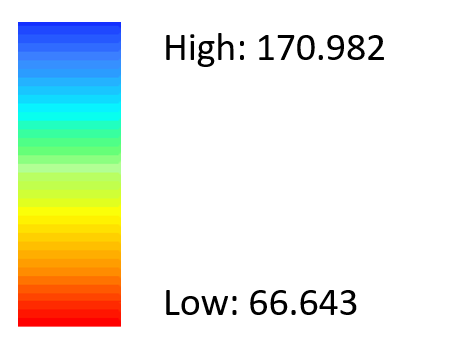
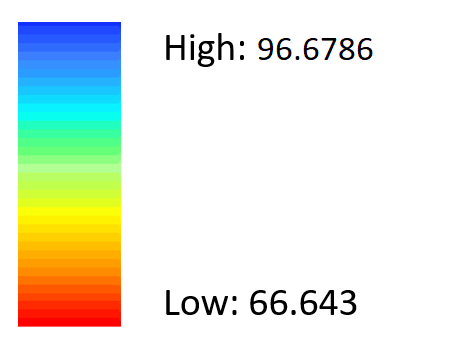
update png files with ones generated from model results

Changed region(s): [[0.5431, 0.0938, 0.8448, 0.1875]]

diff --git a/gafrd_portal_app/templates/index.html b/gafrd_portal_app/templates/index.html
@@ -569,10 +569,10 @@ function checkbox_status(id){
 }
 
 function load_results(id){
-    var top_eg = 31.578858103
-    var left_eg = 30.0000002375
-    var right_eg = 32.0107141575
-    var bottom_eg = 30.6609431859
+    var top_eg = 31.6102614885
+    var left_eg = 29.9709819819
+    var right_eg = 32.0209819819
+    var bottom_eg = 30.6292614885
 
     // Extent for South Africa Data
     /*

diff --git a/gafrd_portal_app/background_removal.py b/gafrd_portal_app/background_removal.py
@@ -1,7 +1,7 @@
 import cv2
 
-#file_name = r"F:\NARSS\Fishers_Project\GAFRD_Portal\gafrd_portal_app\static\model_results\FinalRestrictionModel.png"
-file_name = r"D:\NARSS\Fishers_Project\GAFRD_Portal\gafrd_portal_app\static\model_results\FinalRestrictionModel.png"
+#file_name = r"C:/Users/ahmed.kotb/PycharmProjects/GAFRD_Portal/gafrd_portal_app/static/model_results/FinalSuitabilityModel.tif"
+file_name = r"C:/Users/ahmed.kotb/PycharmProjects/GAFRD_Portal/gafrd_portal_app/static/model_results/FinalRestrictionModel.png"
 src = cv2.imread(file_name, 1)
 tmp = cv2.cvtColor(src, cv2.COLOR_BGR2GRAY)
 _, alpha = cv2.threshold(tmp, 0, 255, cv2.THRESH_BINARY)

diff --git a/gafrd_portal_app/model_tools.py b/gafrd_portal_app/model_tools.py
@@ -541,3 +541,8 @@ class TSModel:
 
         return ",".join([area_clipped_name] + [str(x) for x in out_params])
 
+
+if __name__ == '__main__':
+    img_path = "C:/Users/ahmed.kotb/PycharmProjects/GAFRD_Portal/gafrd_portal_app/static/model_results/FinalSuitabilityModel.tif"
+    TSModel.get_cr(img_path)
+
